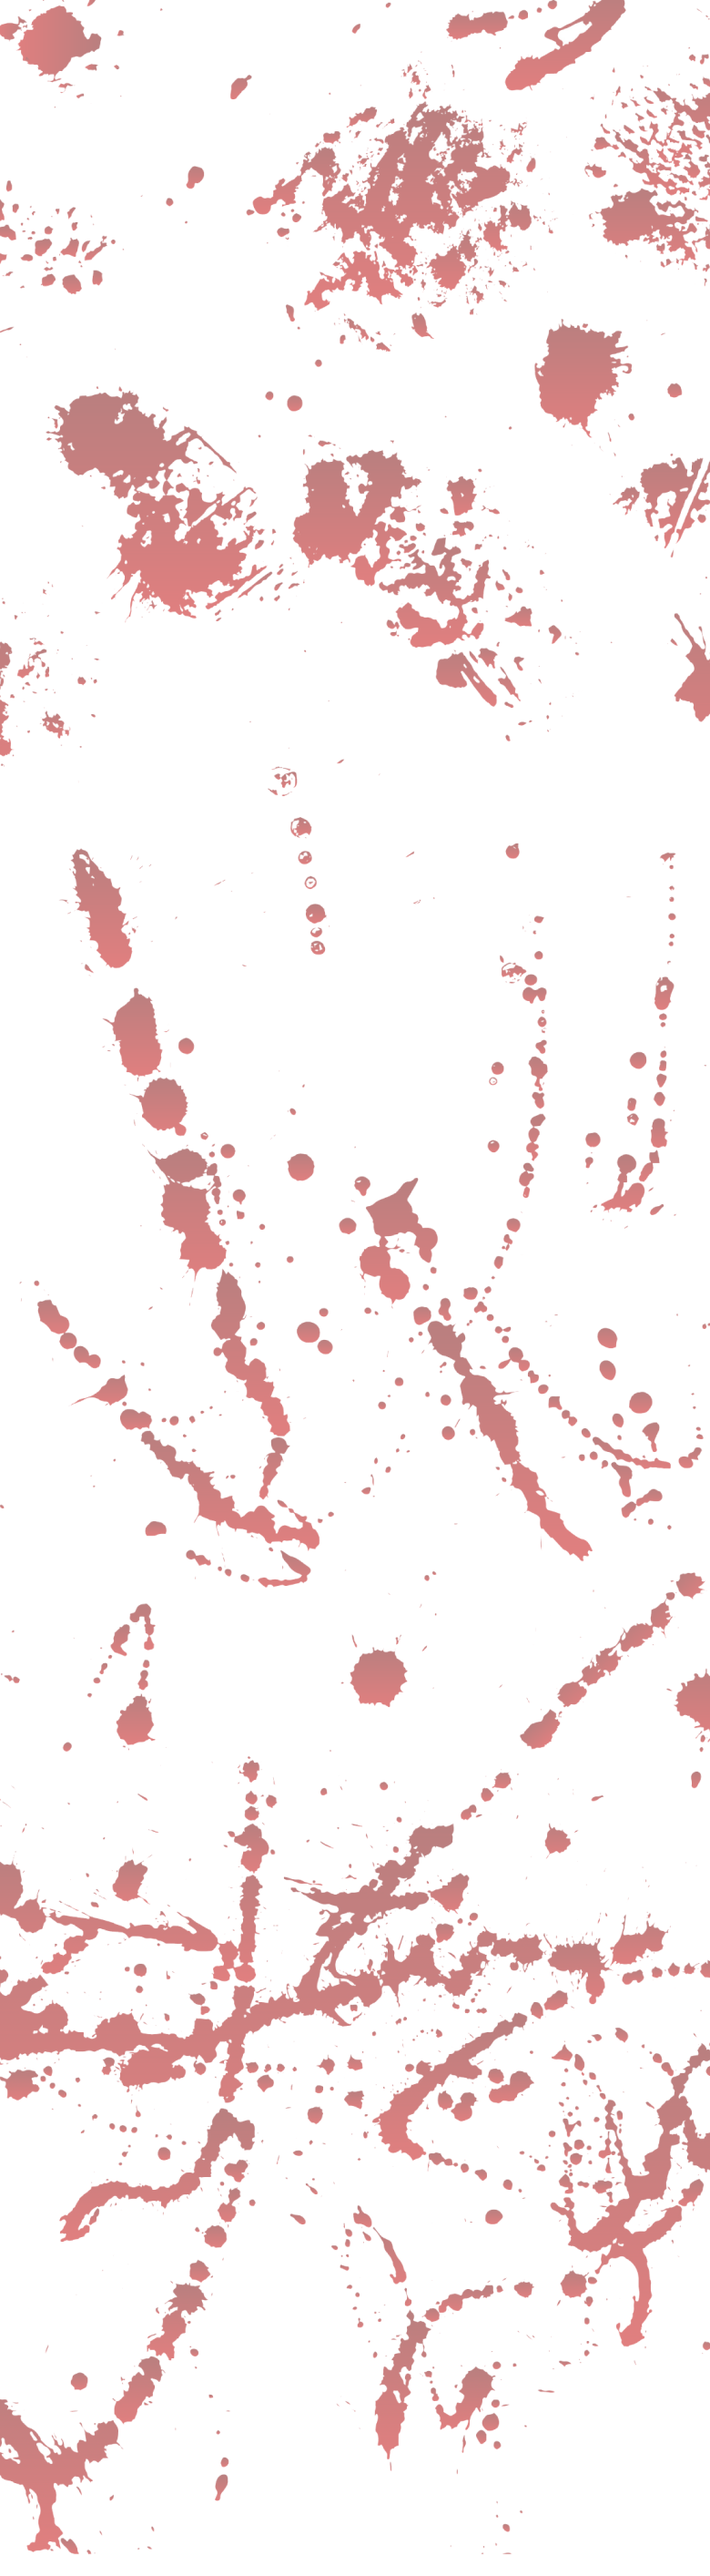
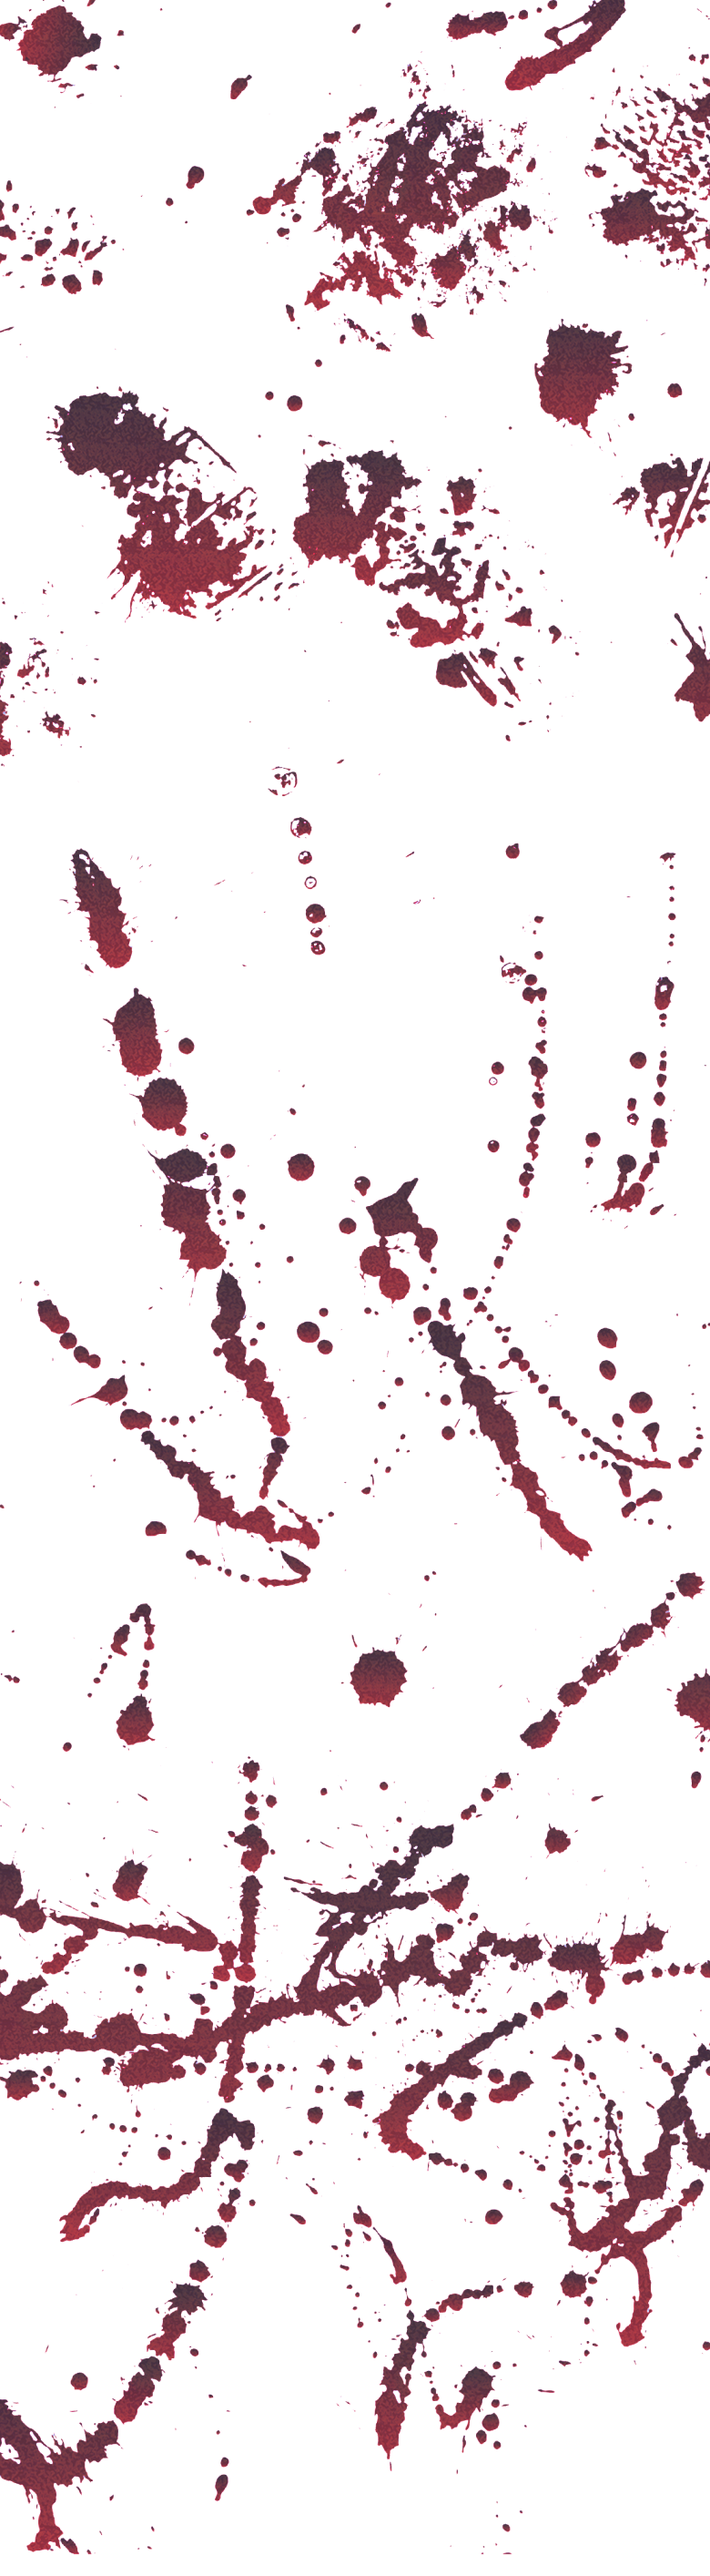
修正前

diff --git a/index.html b/index.html
@@ -52,7 +52,7 @@
                 <div class="visual__wrap">
                     <div class="visual__logo">
                         <h1 class="sr-only">恋する狂気展</h1>
-                        <img src="assets/images/logo.png" width="" height="" loading="lazy" alt="">
+                        <img src="assets/images/logo.png" width="754" height="496" loading="eager" alt="">
                     </div>
                     <nav class="snsNav">
                         <ul class="snsNav__list">
@@ -69,22 +69,20 @@
                     </nav>
                 </div>
                 <div class="visual__img visual__img--01">
-                    <img src="assets/images/bg-visual_01.png" width="" height="" loading="lazy" alt="">
+                    <img src="assets/images/bg-visual_01.png" width="332" height="244" loading="lazy" alt="">
                 </div>
                 <div class="visual__img visual__img--02">
-                    <img src="assets/images/bg-visual_02.png" width="" height="" loading="lazy" alt="">
+                    <img src="assets/images/bg-visual_02.png" width="376" height="516" loading="lazy" alt="">
                 </div>
                 <div class="visual__img visual__img--03">
-                    <img src="assets/images/bg-visual_03.png" width="" height="" loading="lazy" alt="">
+                    <img src="assets/images/bg-visual_03.png" width="414" height="260" loading="lazy" alt="">
                 </div>
-
-
             </div>
 
             <div class="content">
                 <section class="mv">
                     <div class="mv__logo">
-                        <img src="assets/images/logo.png" width="" height="" loading="lazy" alt="">
+                        <img src="assets/images/logo.png" width="754" height="496" loading="eager" alt="">
                     </div>
                     <div class="mv__textBlock">
                         <p class="mv__text">恋をすると、人は正常じゃなくなる。</p>
@@ -169,9 +167,11 @@
                                 <dt class="footer__label">最新情報はこちら</dt>
                                 <dd class="footer__text">
                                     <ul class="footer__social">
-                                        <li><a href=""><span class="linkUnderline">X</span></a></li>
-                                        <li><a href=""><span class="linkUnderline">Instagram</span></a></li>
-                                        <li><a href=""><span class="linkUnderline">Tik Tok</span></a></li>
+                                        <li><a href="" target="_blank"><span class="linkUnderline">X</span></a></li>
+                                        <li><a href="" target="_blank"><span class="linkUnderline">Instagram</span></a>
+                                        </li>
+                                        <li><a href="" target="_blank"><span class="linkUnderline">Tik Tok</span></a>
+                                        </li>
                                     </ul>
                                 </dd>
                             </div>

diff --git a/assets/css/lp.css b/assets/css/lp.css
@@ -18,7 +18,6 @@
     base
 ----------------------------------------------------- */
 html {
-    overflow-x: hidden;
     scroll-behavior: smooth;
     font-size: calc(100vw / 128);
 }
@@ -104,10 +103,6 @@ a {
 ----------------------------------------------------- */
 .container {
     padding-inline: 1.8rem; 
-}
-
-.main {
-
 }
 
 .main::before {
@@ -323,7 +318,7 @@ a {
   inset: 0;
   background: url(/assets/images/bg-blood.png) top / contain no-repeat;
   filter: brightness(0.7) contrast(1.5);
-  z-index: 2;
+  z-index: 5;
   pointer-events: none;
 }
 
@@ -368,7 +363,7 @@ a {
     width: 28.4rem;
     margin-inline: auto;
     position: relative;
-    z-index: 1;
+    z-index: 6;
 }
 
 .mv__textBlock {
@@ -498,6 +493,7 @@ a {
 .about  {
     padding-top: 5.7rem;
     position: relative;
+    background: var(--colorBlack);
 }
 
 .about::before {
@@ -525,6 +521,7 @@ a {
 /* outline */
 .outline {
     padding-top: 4.8rem;
+    background: var(--colorBlack);
 }
 
 .outline__list {

diff --git a/assets/js/script.js b/assets/js/script.js
@@ -2,6 +2,7 @@ document.querySelectorAll('.noise-text').forEach((element) => {
     let timer;
 
     element.addEventListener('mouseenter', () => {
+        if (window.innerWidth <= 767) return;
         if (element.classList.contains('is-gone')) return;
 
         clearTimeout(timer);
